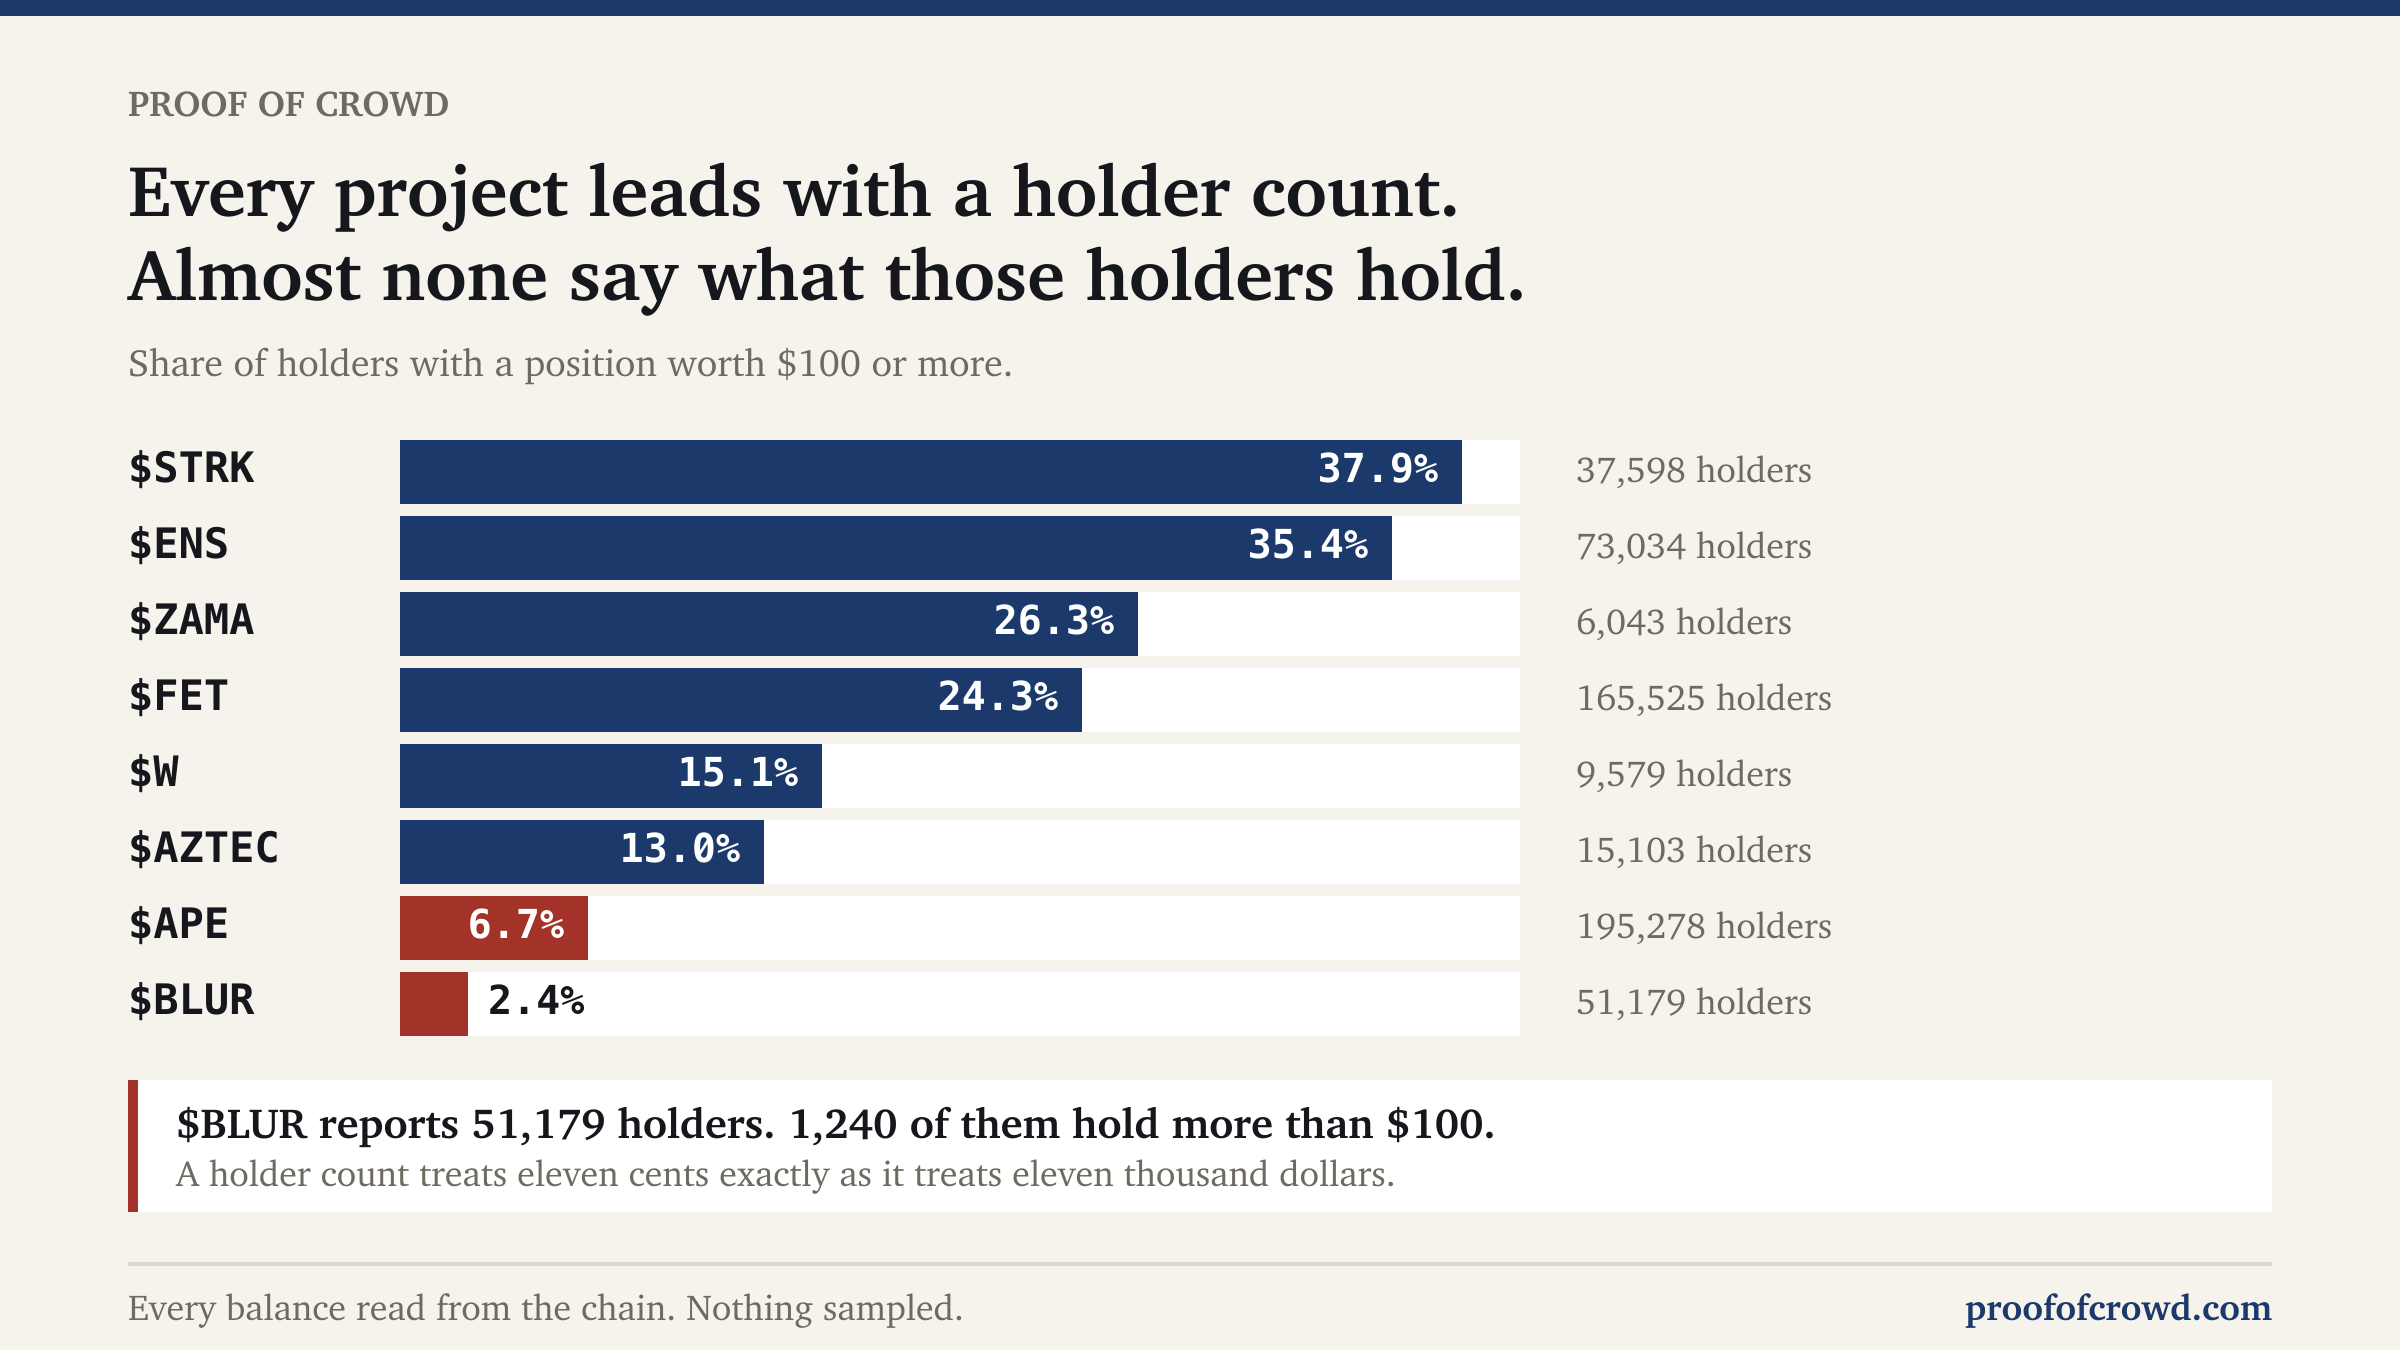
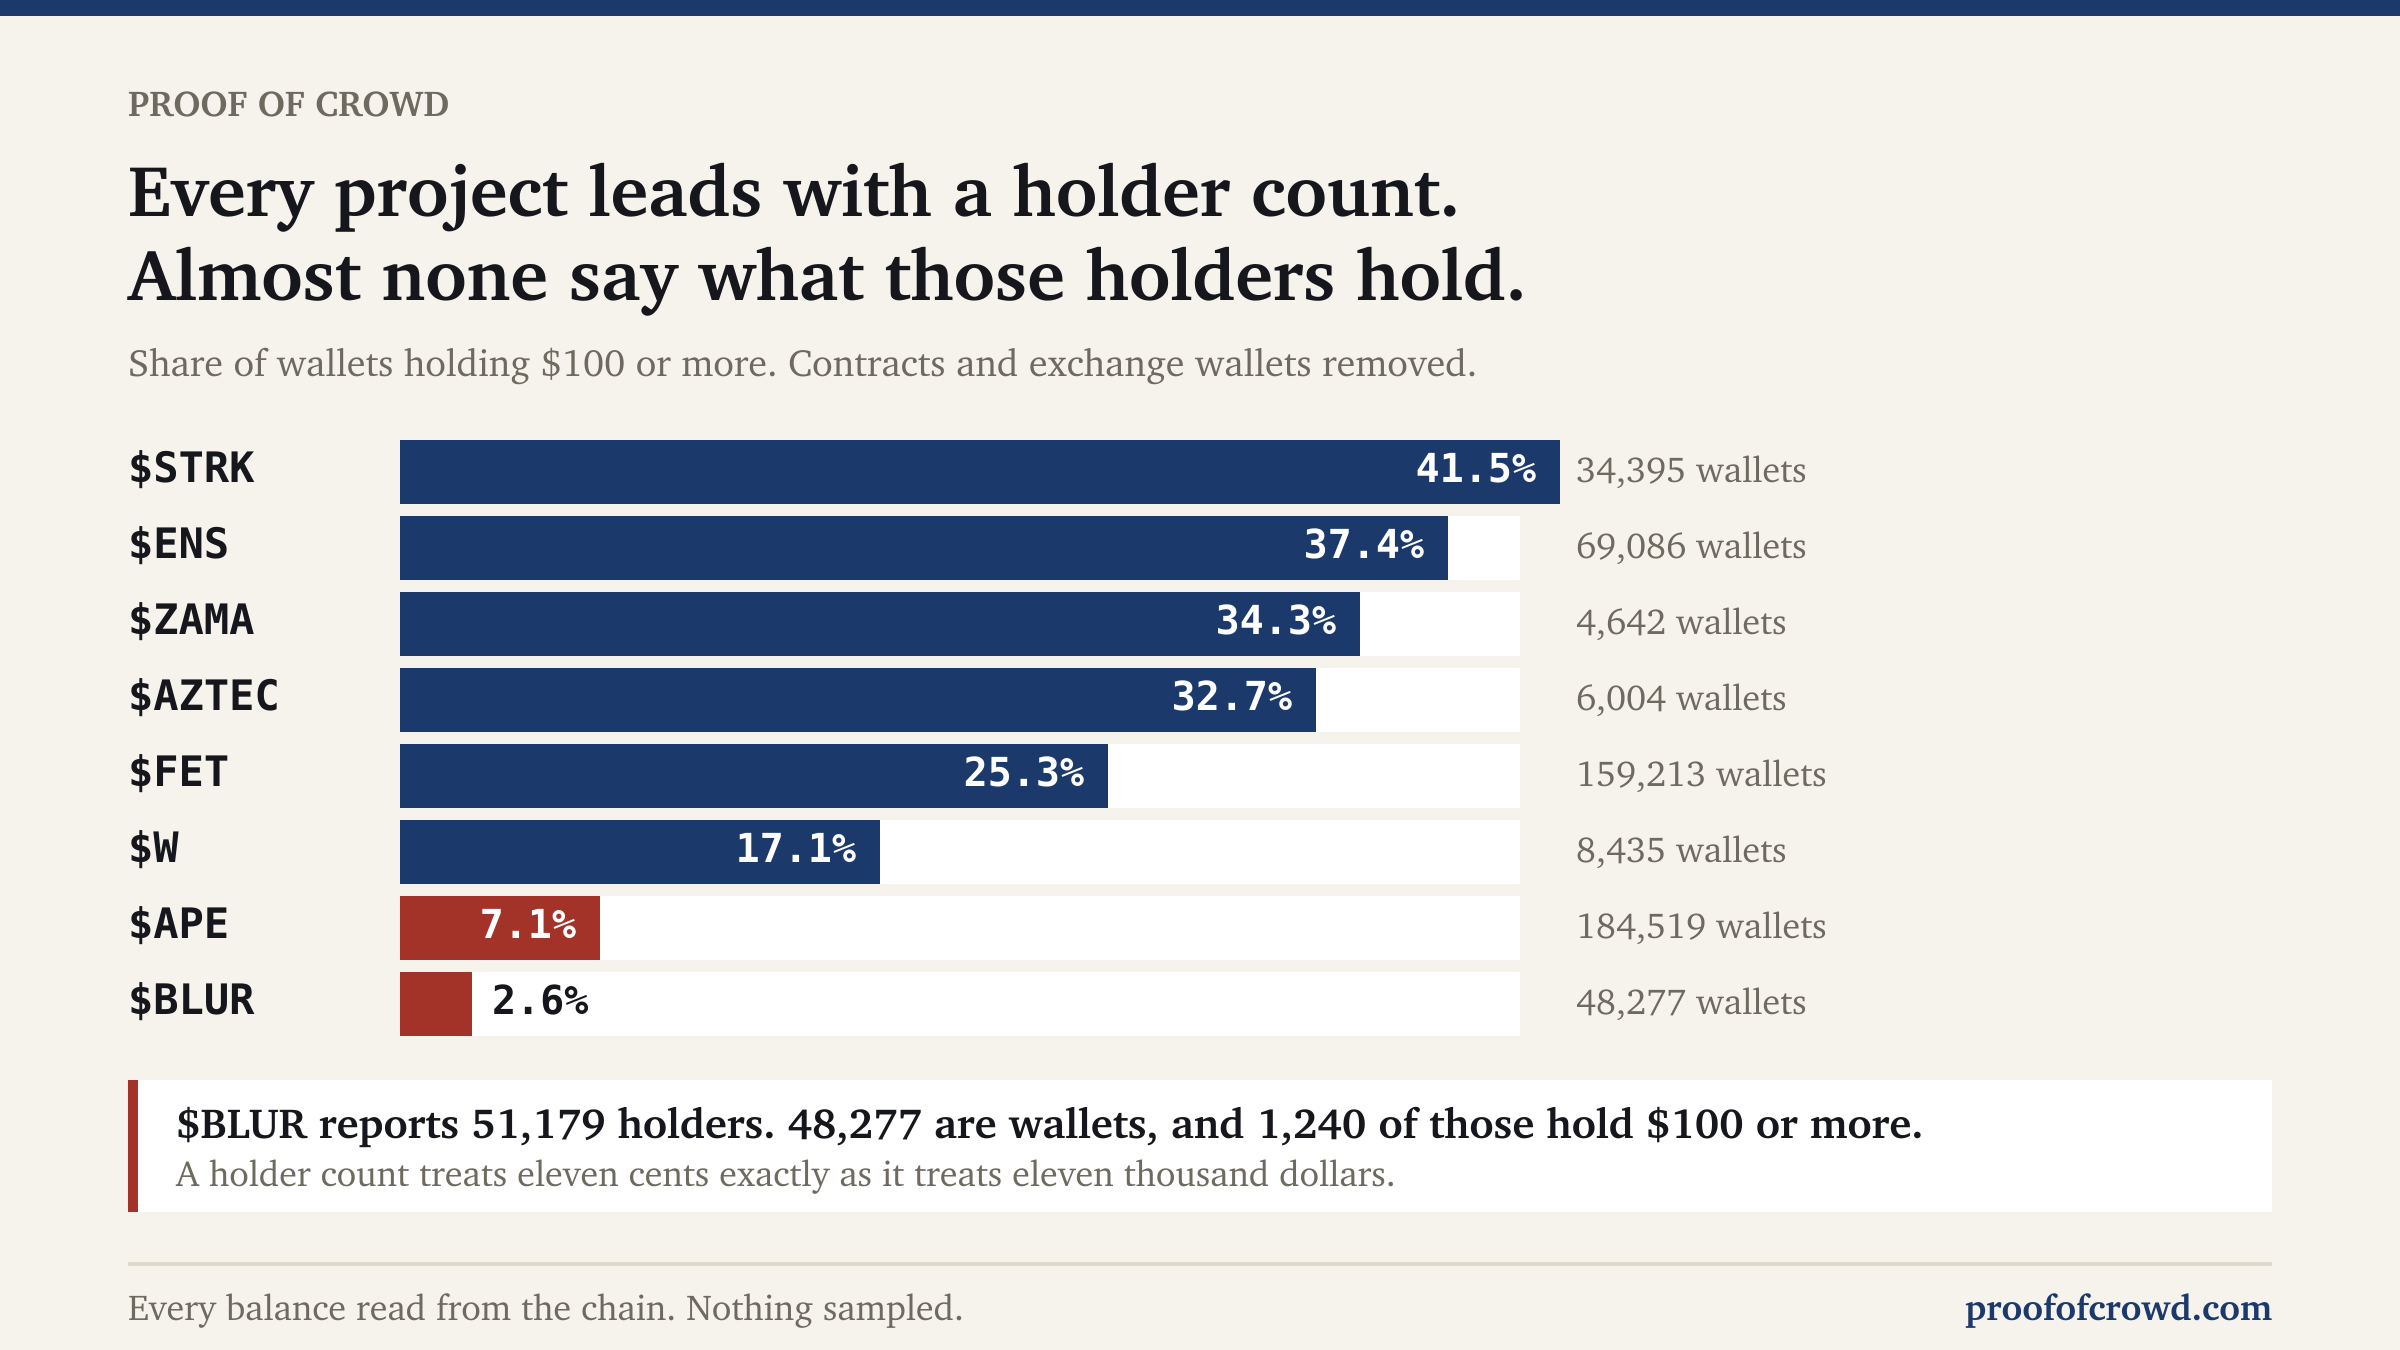
social: measure the holder card against wallets
with_100_usd counts wallets only, so dividing it by the headline count
understated every bar. STRK 37.9 to 41.5, ZAMA 26.3 to 34.3, AZTEC
13.0 to 32.7. The subtitle and the callout now say which population
the share is taken over.

diff --git a/social/make_holders_card.py b/social/make_holders_card.py
@@ -39,12 +39,15 @@ def txt(x, y, size, fill, s, weight=400, anchor="start", font=None):
 rows = []
 for p in sorted(glob.glob(str(SRC / "*-wallets.json"))):
     d = json.loads(Path(p).read_text())
-    h = d.get("holders_headline") or 0
-    if h:
-        rows.append({"sym": d["symbol"], "holders": h,
+    h, w = d.get("holders_headline") or 0, d.get("wallets") or 0
+    if h and w:
+        rows.append({"sym": d["symbol"], "holders": h, "wallets": w,
                      "big": d.get("with_100_usd") or 0})
 for r in rows:
-    r["share"] = r["big"] / r["holders"]
+    # Against wallets, never against the headline count. with_100_usd is
+    # counted over wallets alone, so the headline denominator would mix two
+    # populations and understate every bar.
+    r["share"] = r["big"] / r["wallets"]
 rows.sort(key=lambda r: -r["share"])
 
 W, H = 1200, 675
@@ -54,7 +57,7 @@ b = [f'<rect width="{W}" height="{H}" fill="{BG}"/>',
      txt(L, 58, 18, SUB, "PROOF OF CROWD", 700),
      txt(L, 108, 36, TEXT, "Every project leads with a holder count.", 700),
      txt(L, 150, 36, TEXT, "Almost none say what those holders hold.", 700),
-     txt(L, 188, 19, SUB, "Share of holders with a position worth $100 or more.")]
+     txt(L, 188, 19, SUB, "Share of wallets holding $100 or more. Contracts and exchange wallets removed.")]
 
 BAR_L, BAR_W, BH = 200, 560, 32
 y = 220
@@ -69,7 +72,7 @@ for r in rows:
                  PANEL if inside else TEXT, f"{r['share']*100:.1f}%", 700,
                  "end" if inside else "start", MONO))
     b.append(txt(BAR_L + BAR_W + 28, y + BH - 11, 18, SUB,
-                 f"{r['holders']:,} holders"))
+                 f"{r['wallets']:,} wallets"))
     y += BH + 6
 
 blur = next(r for r in rows if r["sym"] == "BLUR")
@@ -77,8 +80,8 @@ y += 16
 b.append(f'<rect x="{L}" y="{y}" width="{R-L}" height="66" fill="{PANEL}"/>')
 b.append(f'<rect x="{L}" y="{y}" width="5" height="66" fill="{BAD}"/>')
 b.append(txt(L + 24, y + 29, 21, TEXT,
-             f"$BLUR reports {blur['holders']:,} holders. {blur['big']:,} of them "
-             f"hold more than $100.", 700))
+             f"$BLUR reports {blur['holders']:,} holders. {blur['wallets']:,} are "
+             f"wallets, and {blur['big']:,} of those hold $100 or more.", 700))
 b.append(txt(L + 24, y + 53, 18, SUB,
              "A holder count treats eleven cents exactly as it treats eleven "
              "thousand dollars."))
